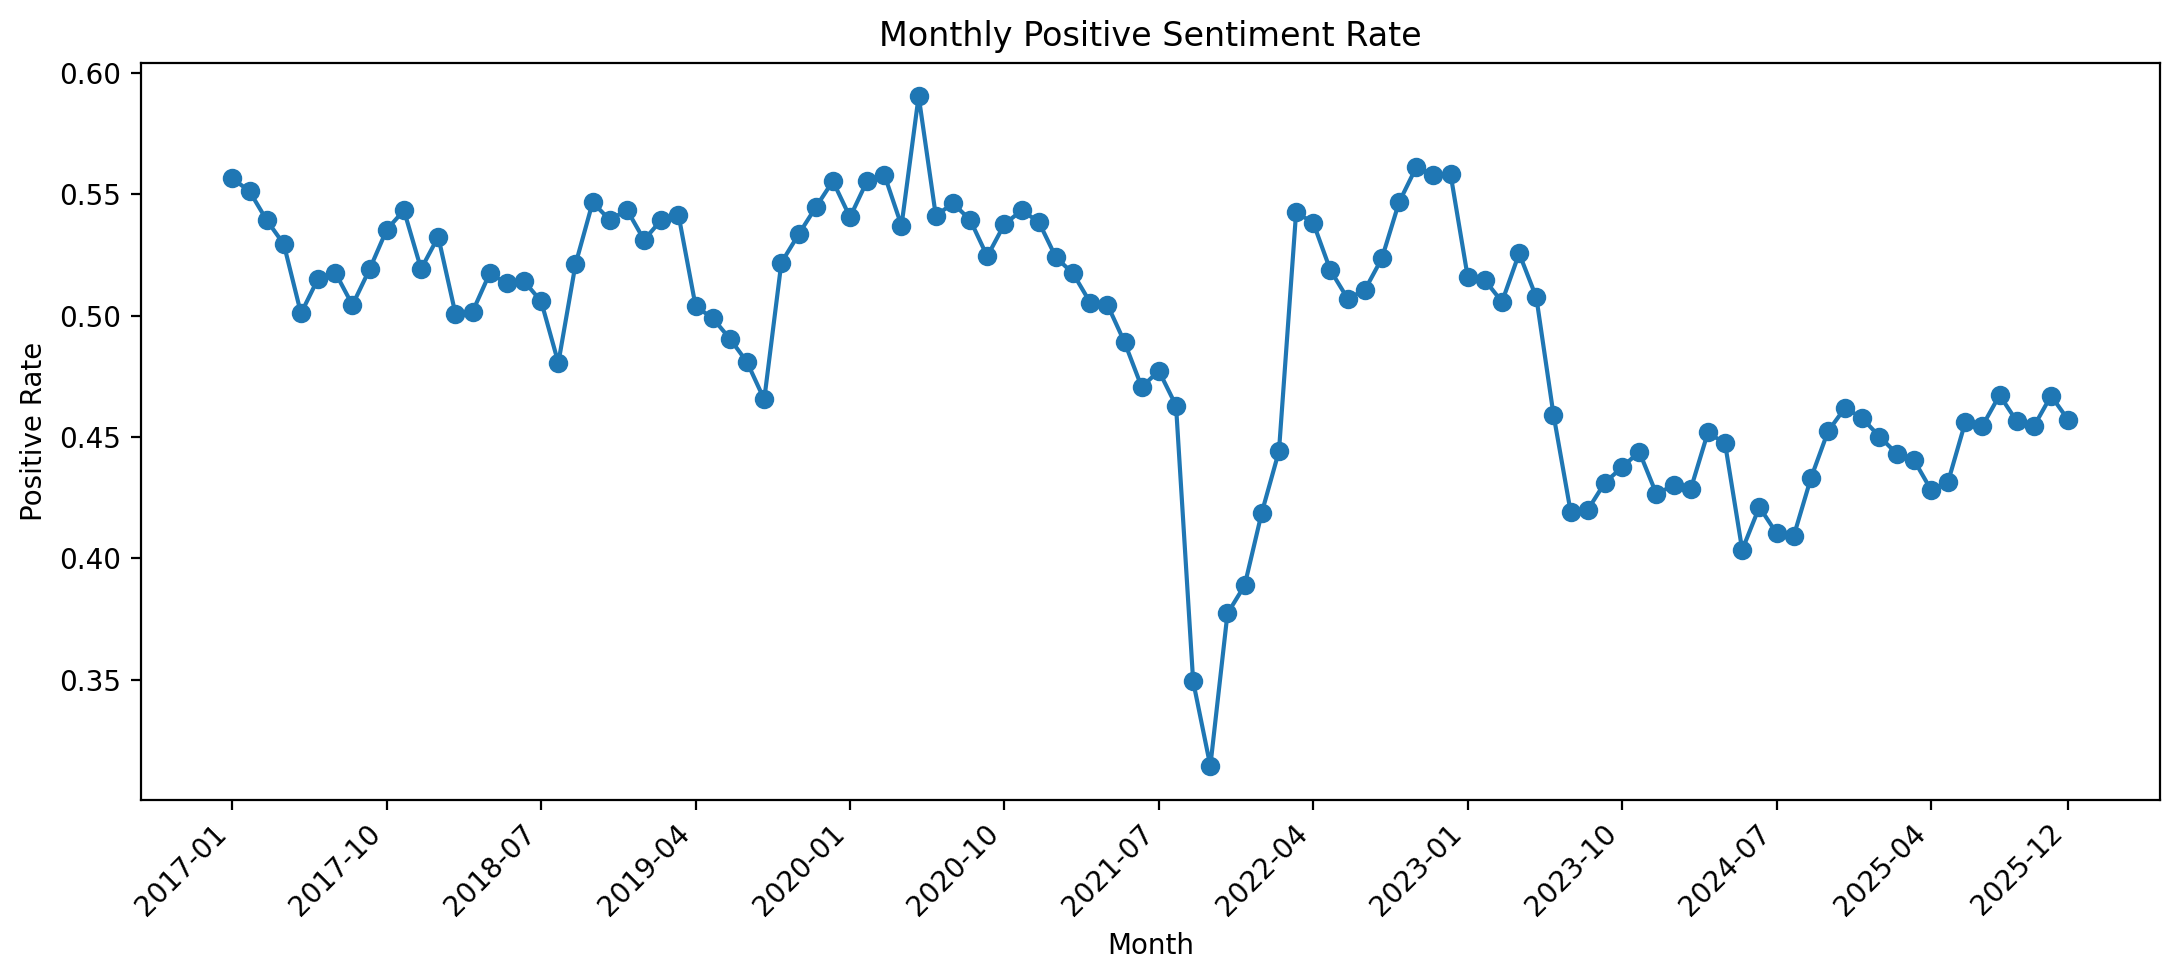
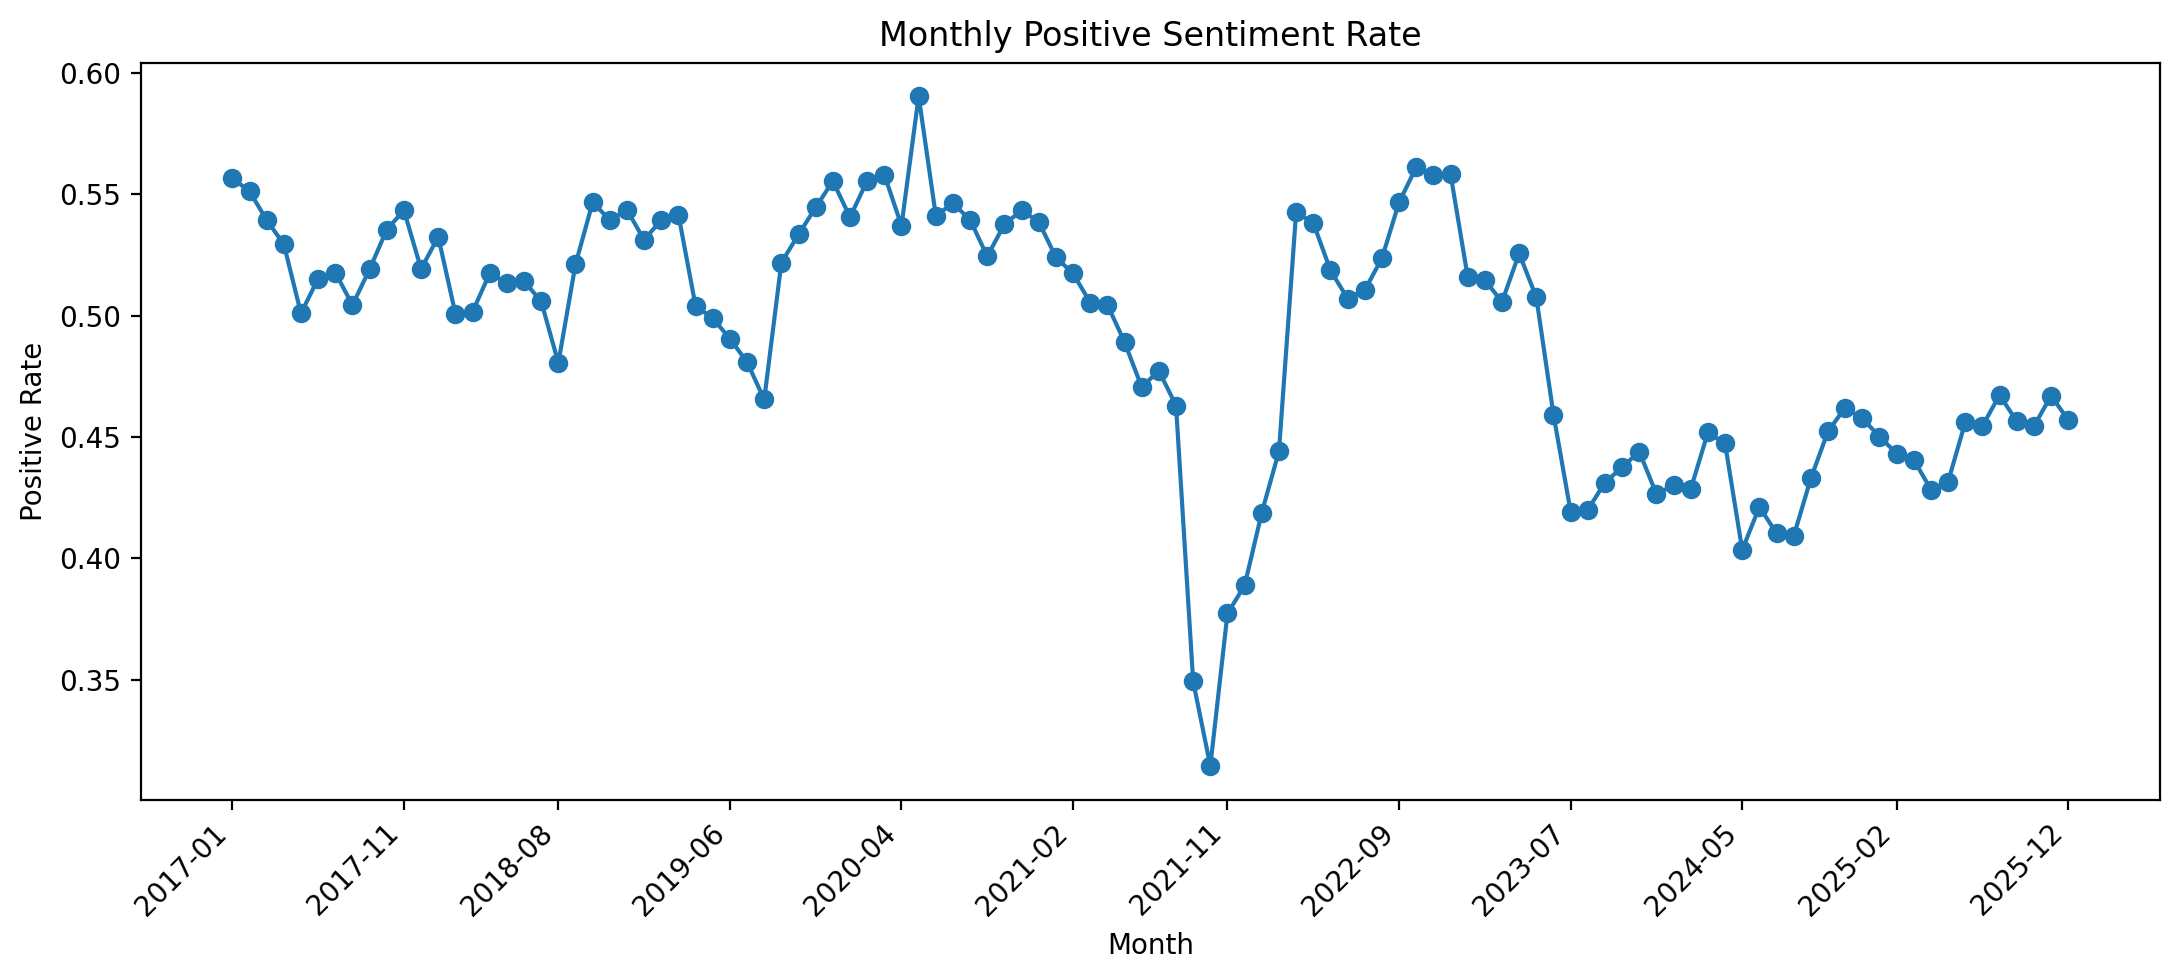
Upload new final plots and summaries

diff --git a/src/reporting/create_final_report_outputs.py b/src/reporting/create_final_report_outputs.py
@@ -62,10 +62,14 @@ def apply_sparse_month_ticks(ax, labels, max_ticks=12):
     if n <= max_ticks:
         positions = list(range(n))
     else:
-        step = max(1, n // (max_ticks - 1))
-        positions = list(range(0, n, step))
-        if positions[-1] != n - 1:
-            positions.append(n - 1)
+        if max_ticks <= 1:
+            positions = [0]
+        else:
+            positions = []
+            for i in range(max_ticks):
+                pos = round(i * (n - 1) / (max_ticks - 1))
+                if pos not in positions:
+                    positions.append(pos)
     ax.set_xticks(positions)
     ax.set_xticklabels([clean_labels[i] for i in positions], rotation=45, ha="right")
 
@@ -423,6 +427,116 @@ def save_plot_monthly_topic_trends(topic_monthly_df, output_path):
     return True
 
 
+def save_plot_monthly_topic_trends_small_multiples(topic_monthly_df, output_path):
+    """
+    Create one mini-chart per topic to avoid overlap in the combined trend plot.
+    """
+    plot_df = topic_monthly_df.copy()
+    if len(plot_df) == 0:
+        return False
+
+    pivot_df = (
+        plot_df.pivot(index="year_month", columns="topic_bucket", values="topic_posts_in_month")
+               .fillna(0)
+    )
+    if pivot_df.empty:
+        return False
+
+    combined_topic_order = pivot_df.columns.tolist()
+    default_colors = plt.rcParams["axes.prop_cycle"].by_key().get("color", [])
+    color_map = {}
+    for idx, topic in enumerate(combined_topic_order):
+        if len(default_colors) > 0:
+            color_map[topic] = default_colors[idx % len(default_colors)]
+        else:
+            color_map[topic] = f"C{idx}"
+
+    topic_order = pivot_df.sum(axis=0).sort_values(ascending=False).index.tolist()
+    pivot_df = pivot_df[topic_order]
+
+    num_topics = len(topic_order)
+    ncols = 2
+    nrows = (num_topics + ncols - 1) // ncols
+    fig, axes = plt.subplots(nrows=nrows, ncols=ncols, figsize=(14, 3.8 * nrows), sharex=True)
+
+    if hasattr(axes, "flatten"):
+        axes = axes.flatten()
+    else:
+        axes = [axes]
+
+    x_positions = list(range(len(pivot_df.index)))
+    for idx, topic in enumerate(topic_order):
+        ax = axes[idx]
+        ax.plot(
+            x_positions,
+            pivot_df[topic],
+            marker="o",
+            linewidth=1.8,
+            color=color_map.get(topic),
+        )
+        ax.set_title(str(topic))
+        ax.set_ylabel("Post Count")
+        row_num = idx // ncols
+        is_bottom_row = row_num == (nrows - 1)
+        if is_bottom_row:
+            apply_sparse_month_ticks(ax, pivot_df.index.tolist(), max_ticks=6)
+        else:
+            ax.set_xticks([])
+            ax.set_xlabel("")
+        ax.grid(alpha=0.25)
+
+    for idx in range(num_topics, len(axes)):
+        axes[idx].axis("off")
+
+    fig.suptitle("Topic Frequency Over Time (Small Multiples)", y=0.995)
+    plt.tight_layout()
+    plt.savefig(output_path, dpi=200, bbox_inches="tight")
+    plt.close()
+    return True
+
+
+def save_plot_monthly_topic_trends_indexed(topic_monthly_df, output_path):
+    """
+    Compare trend shape by indexing each topic to its own baseline month (=100).
+    """
+    plot_df = topic_monthly_df.copy()
+    if len(plot_df) == 0:
+        return False
+
+    pivot_df = (
+        plot_df.pivot(index="year_month", columns="topic_bucket", values="topic_posts_in_month")
+               .fillna(0.0)
+    )
+    if pivot_df.empty:
+        return False
+
+    indexed_df = pivot_df.copy()
+    for topic in indexed_df.columns:
+        series = indexed_df[topic]
+        non_zero = series[series > 0]
+        if len(non_zero) == 0:
+            indexed_df[topic] = 0.0
+        else:
+            baseline = float(non_zero.iloc[0])
+            indexed_df[topic] = (series / baseline) * 100.0
+
+    fig, ax = plt.subplots(figsize=(12, 6))
+    x_positions = list(range(len(indexed_df.index)))
+    for topic in indexed_df.columns:
+        ax.plot(x_positions, indexed_df[topic], marker="o", linewidth=1.8, label=topic)
+
+    ax.set_title("Monthly Topic Trends (Indexed to First Non-zero Month = 100)")
+    ax.set_xlabel("Month")
+    ax.set_ylabel("Indexed Topic Count")
+    apply_sparse_month_ticks(ax, indexed_df.index.tolist(), max_ticks=12)
+    ax.axhline(100, linestyle="--", linewidth=1, alpha=0.4)
+    ax.legend()
+    plt.tight_layout()
+    plt.savefig(output_path, dpi=200, bbox_inches="tight")
+    plt.close()
+    return True
+
+
 def build_written_summary(overall_df, time_df, subreddit_df, topic_df, monthly_df, hypothesis_df):
     overall = overall_df.iloc[0].to_dict()
 
@@ -488,6 +602,11 @@ def build_written_summary(overall_df, time_df, subreddit_df, topic_df, monthly_d
                 f"- {row['year_month']}: {int(row['total_posts']):,} posts, positive rate {row['positive_rate']:.2%}, topic-tag share {row['share_posts_with_any_topic']:.2%}"
             )
         summary_lines.append("")
+        summary_lines.append("How to read the topic trend figures")
+        summary_lines.append("- plot_monthly_topic_trends.png shows absolute monthly topic counts and overall magnitude.")
+        summary_lines.append("- plot_monthly_topic_trends_small_multiples.png separates topics so lower-volume trends are easier to track.")
+        summary_lines.append("- plot_monthly_topic_trends_indexed.png normalizes each topic to 100 at its first non-zero month to compare trend shape.")
+        summary_lines.append("")
 
     if len(hypothesis_df) > 0:
         summary_lines.append("Hypothesis-testing readiness")
@@ -535,6 +654,11 @@ def build_markdown_summary(overall_df, time_df, subreddit_df, topic_df, monthly_
     lines.append("## Topic summary")
     for _, row in topic_df.sort_values(by='total_posts', ascending=False).iterrows():
         lines.append(f"- **{row['topic_bucket']}**: {int(row['total_posts']):,} posts, positive rate {row['positive_rate']:.2%}, negative rate {row['negative_rate']:.2%}")
+    lines.append("")
+    lines.append("## How to read the topic trend figures")
+    lines.append("- `plot_monthly_topic_trends.png` shows absolute monthly topic counts and overall magnitude.")
+    lines.append("- `plot_monthly_topic_trends_small_multiples.png` separates topics so lower-volume trends are easier to track.")
+    lines.append("- `plot_monthly_topic_trends_indexed.png` normalizes each topic to 100 at its first non-zero month to compare trend shape.")
     lines.append("")
 
     lines.append("## Hypothesis-testing readiness")
@@ -656,6 +780,14 @@ def main():
         created_plots.append("plot_monthly_positive_sentiment.png")
     if save_plot_monthly_topic_trends(topic_monthly_df, plots_dir / "plot_monthly_topic_trends.png"):
         created_plots.append("plot_monthly_topic_trends.png")
+    if save_plot_monthly_topic_trends_small_multiples(
+        topic_monthly_df, plots_dir / "plot_monthly_topic_trends_small_multiples.png"
+    ):
+        created_plots.append("plot_monthly_topic_trends_small_multiples.png")
+    if save_plot_monthly_topic_trends_indexed(
+        topic_monthly_df, plots_dir / "plot_monthly_topic_trends_indexed.png"
+    ):
+        created_plots.append("plot_monthly_topic_trends_indexed.png")
 
     print(f"Plots created: {len(created_plots)}")
     for name in created_plots:

diff --git a/src/data/reddit/final_outputs/written_summary/final_summary.md b/src/data/reddit/final_outputs/written_summary/final_summary.md
@@ -28,6 +28,11 @@
 - **layoffs_market**: 55,092 posts, positive rate 22.38%, negative rate 77.62%
 - **ai_llm**: 47,113 posts, positive rate 49.72%, negative rate 50.28%
 
+## How to read the topic trend figures
+- `plot_monthly_topic_trends.png` shows absolute monthly topic counts and overall magnitude.
+- `plot_monthly_topic_trends_small_multiples.png` separates topics so lower-volume trends are easier to track.
+- `plot_monthly_topic_trends_indexed.png` normalizes each topic to 100 at its first non-zero month to compare trend shape.
+
 ## Hypothesis-testing readiness
 - **H1**: ready_for_real_test (pre-COVID recruiting posts=135876, post-COVID recruiting posts=379892)
 - **H2**: partially_testable (layoffs-topic posts in current dataset=55092)
